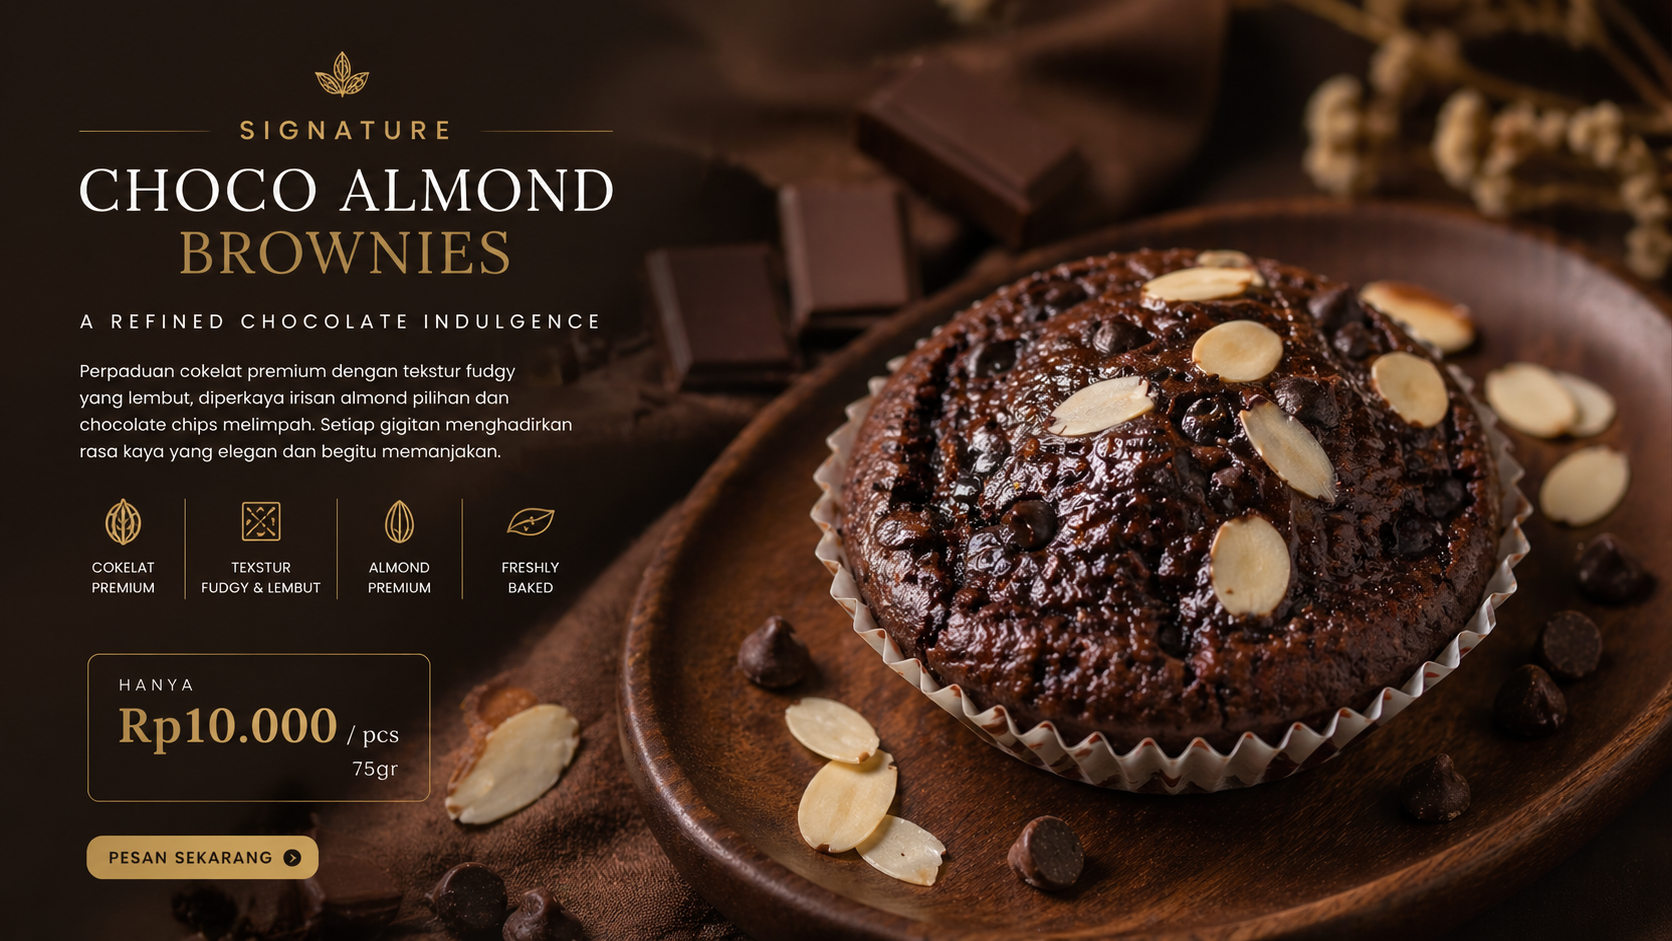
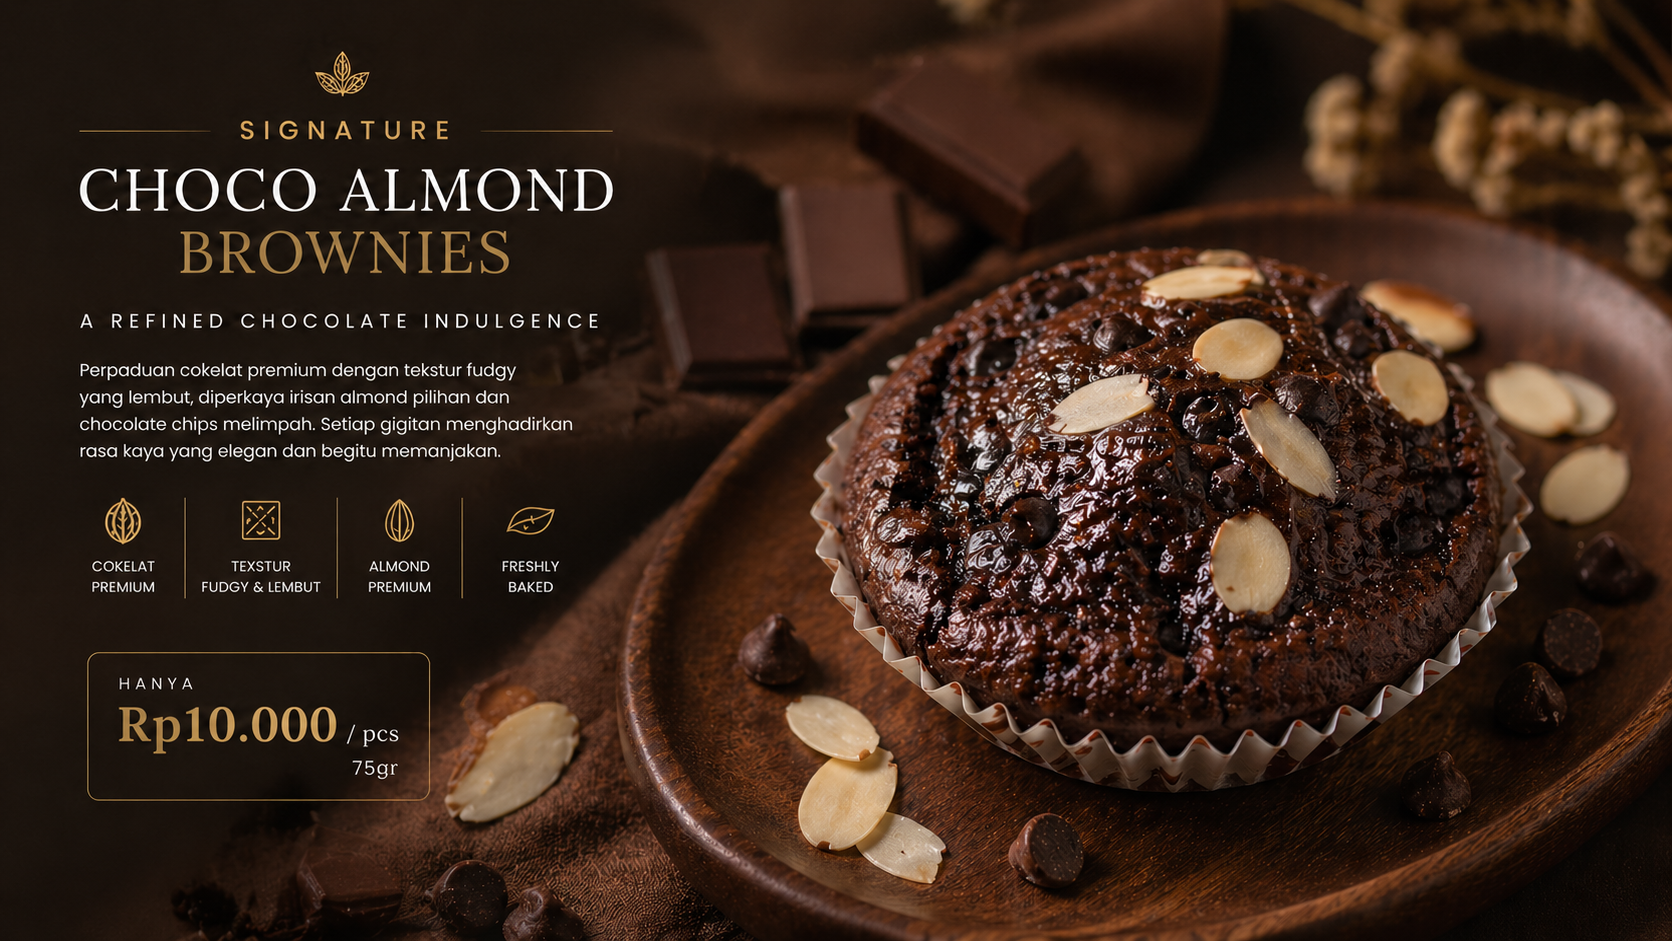
changing brownies section

diff --git a/css/style.css b/css/style.css
@@ -3998,10 +3998,9 @@ p {
 .signature-hero-banner {
     position: relative;
     width: 100%;
-    height: 100vh;
+    height: 93vh;
     overflow: hidden;
     margin-top: 60px;
-    height: 93vh;
 }
 
 .signature-hero-banner img {
@@ -4009,11 +4008,9 @@ p {
     height: 100%;
     object-fit: cover;
     object-position: center 20%;
-    /* geser gambar ke atas sedikit */
     position: absolute;
     inset: 0;
     display: block;
-
 }
 
 .signature-hero-cta {
@@ -4027,4 +4024,46 @@ p {
     padding: 16px 48px;
     font-size: 1.1rem;
     letter-spacing: 1px;
+}
+
+/* Tablet */
+@media (max-width: 768px) {
+    .signature-hero-banner {
+        height: auto;
+        /* ngikutin tinggi layar HP */
+        margin-top: 0;
+    }
+
+    .signature-hero-banner img {
+        position: relative;
+        /* bukan absolute lagi */
+        inset: unset;
+        width: 100%;
+        height: auto;
+        object-fit: unset;
+    }
+
+    .signature-hero-cta {
+        bottom: 8%;
+        left: 50%;
+        transform: translateX(-50%);
+        width: 100%;
+        text-align: center;
+    }
+
+    .signature-hero-cta .btn {
+        padding: 12px 32px;
+        font-size: 0.95rem;
+    }
+}
+
+@media (max-width: 480px) {
+    .signature-hero-banner {
+        height: 100svh;
+    }
+
+    .signature-hero-cta .btn {
+        padding: 10px 24px;
+        font-size: 0.85rem;
+    }
 }

diff --git a/index.html b/index.html
@@ -677,10 +677,9 @@
         <!-- Signature Banner — di LUAR .container biar full width -->
         <div class="signature-hero-banner scroll-reveal">
             <img src="images/brownies-topping-banner.png" alt="Signature Choco Almond Brownies" loading="lazy">
-            <div class="signature-hero-overlay"></div>
             <div class="signature-hero-cta">
                 <button onclick="openOrderModal()" class="btn btn-primary">
-                    Nikmati Sekarang
+                    Pesan Sekarang
                 </button>
             </div>
         </div>
